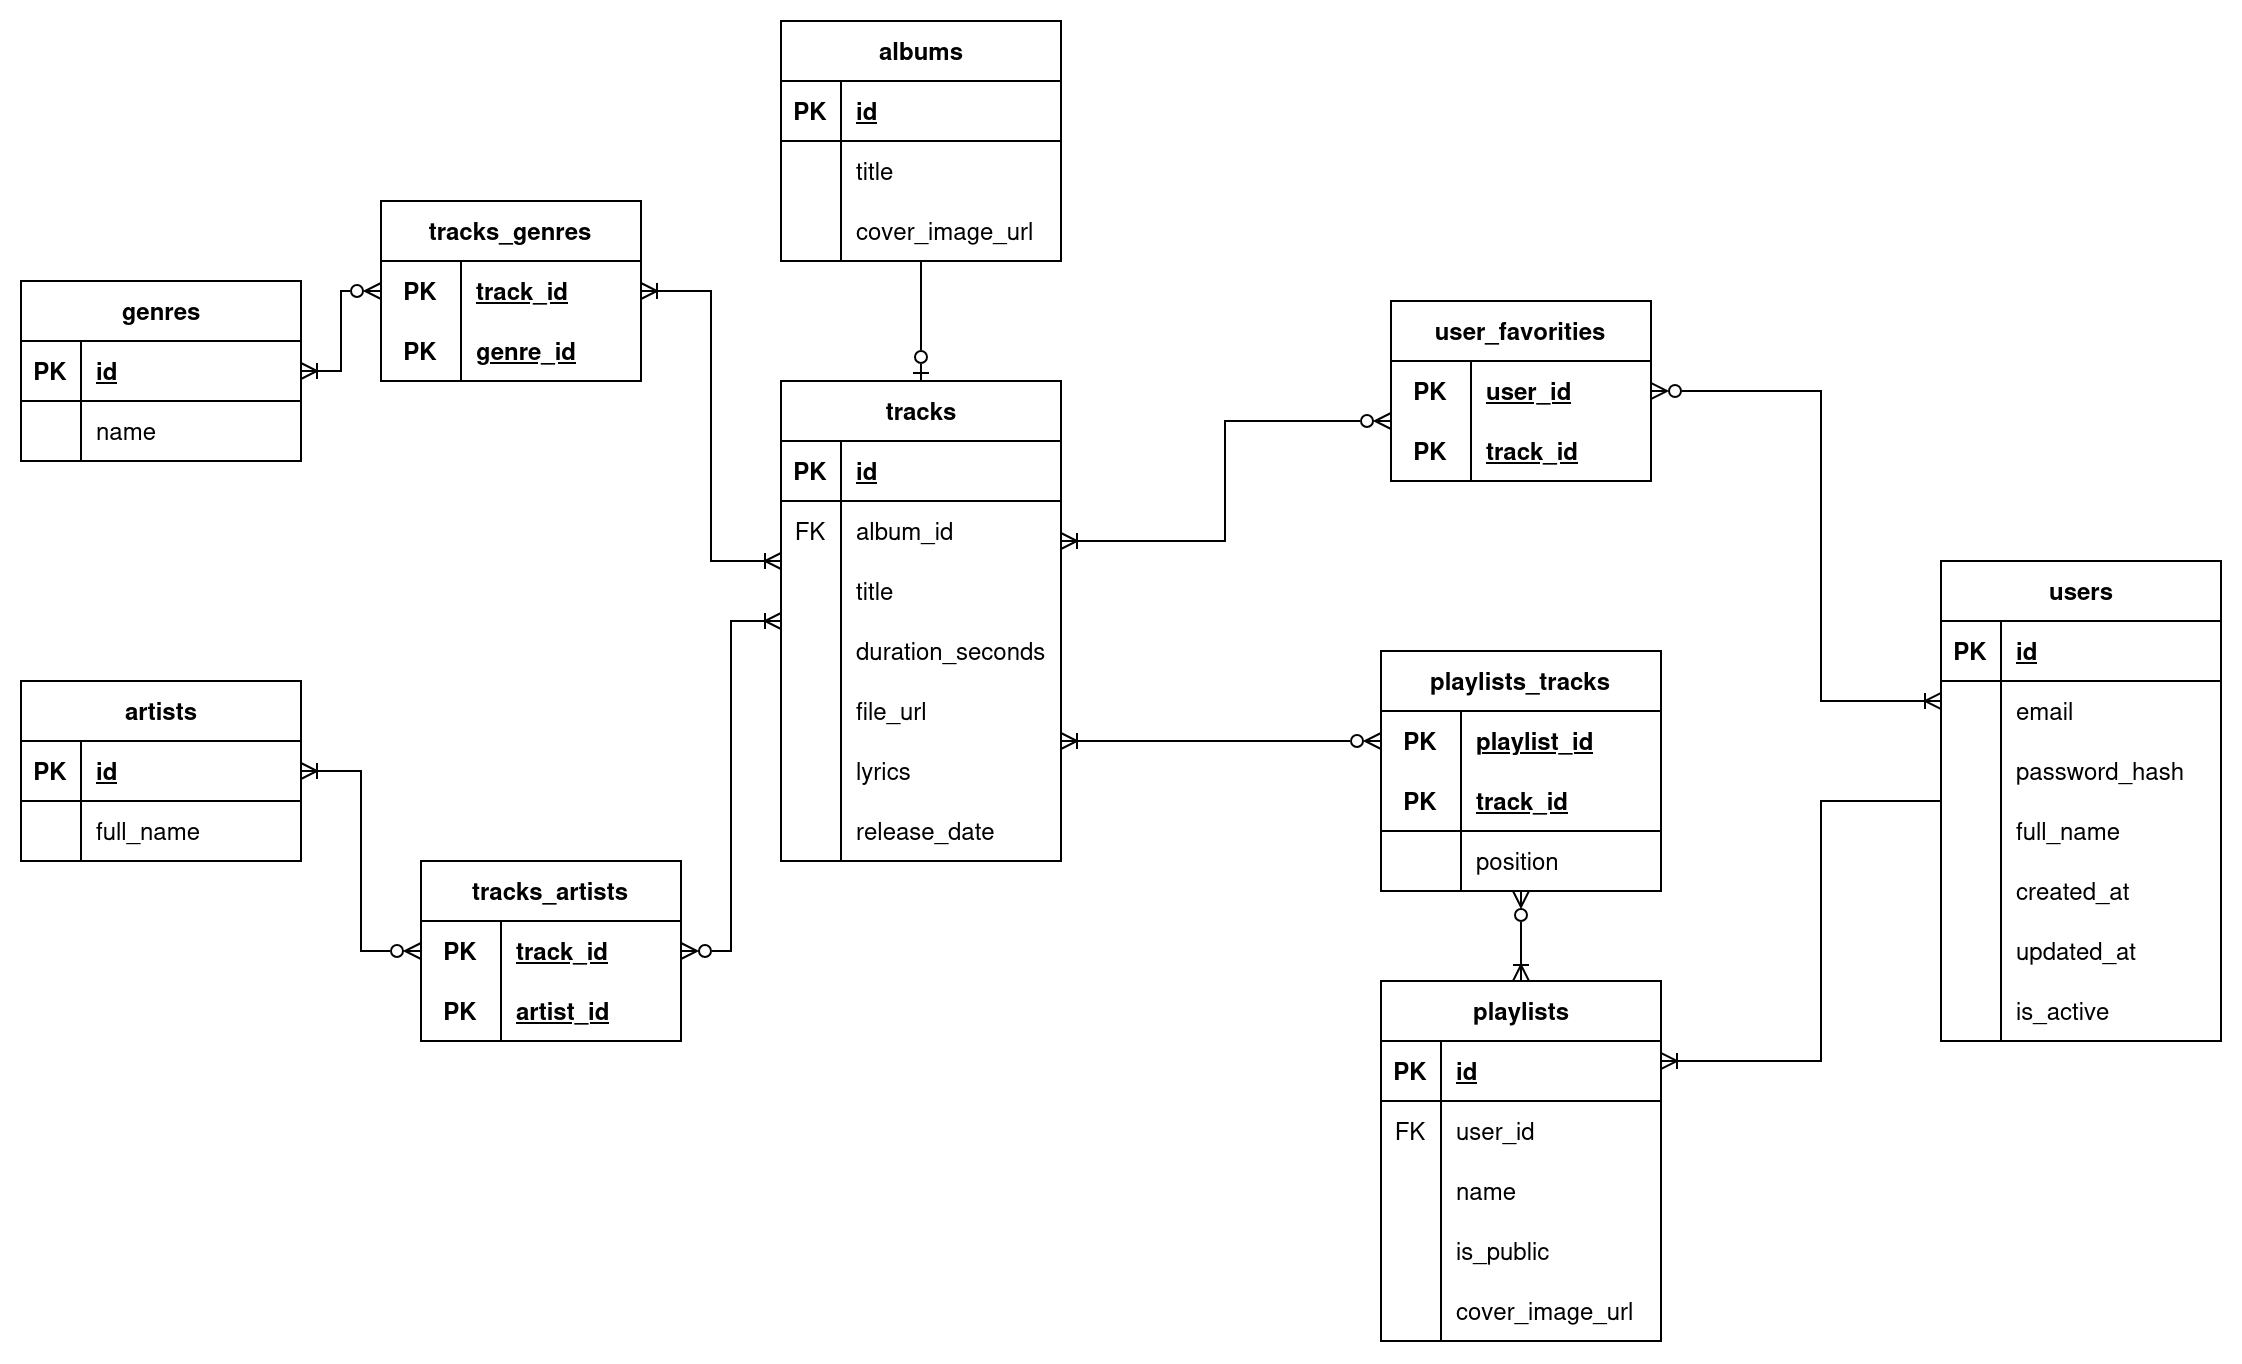
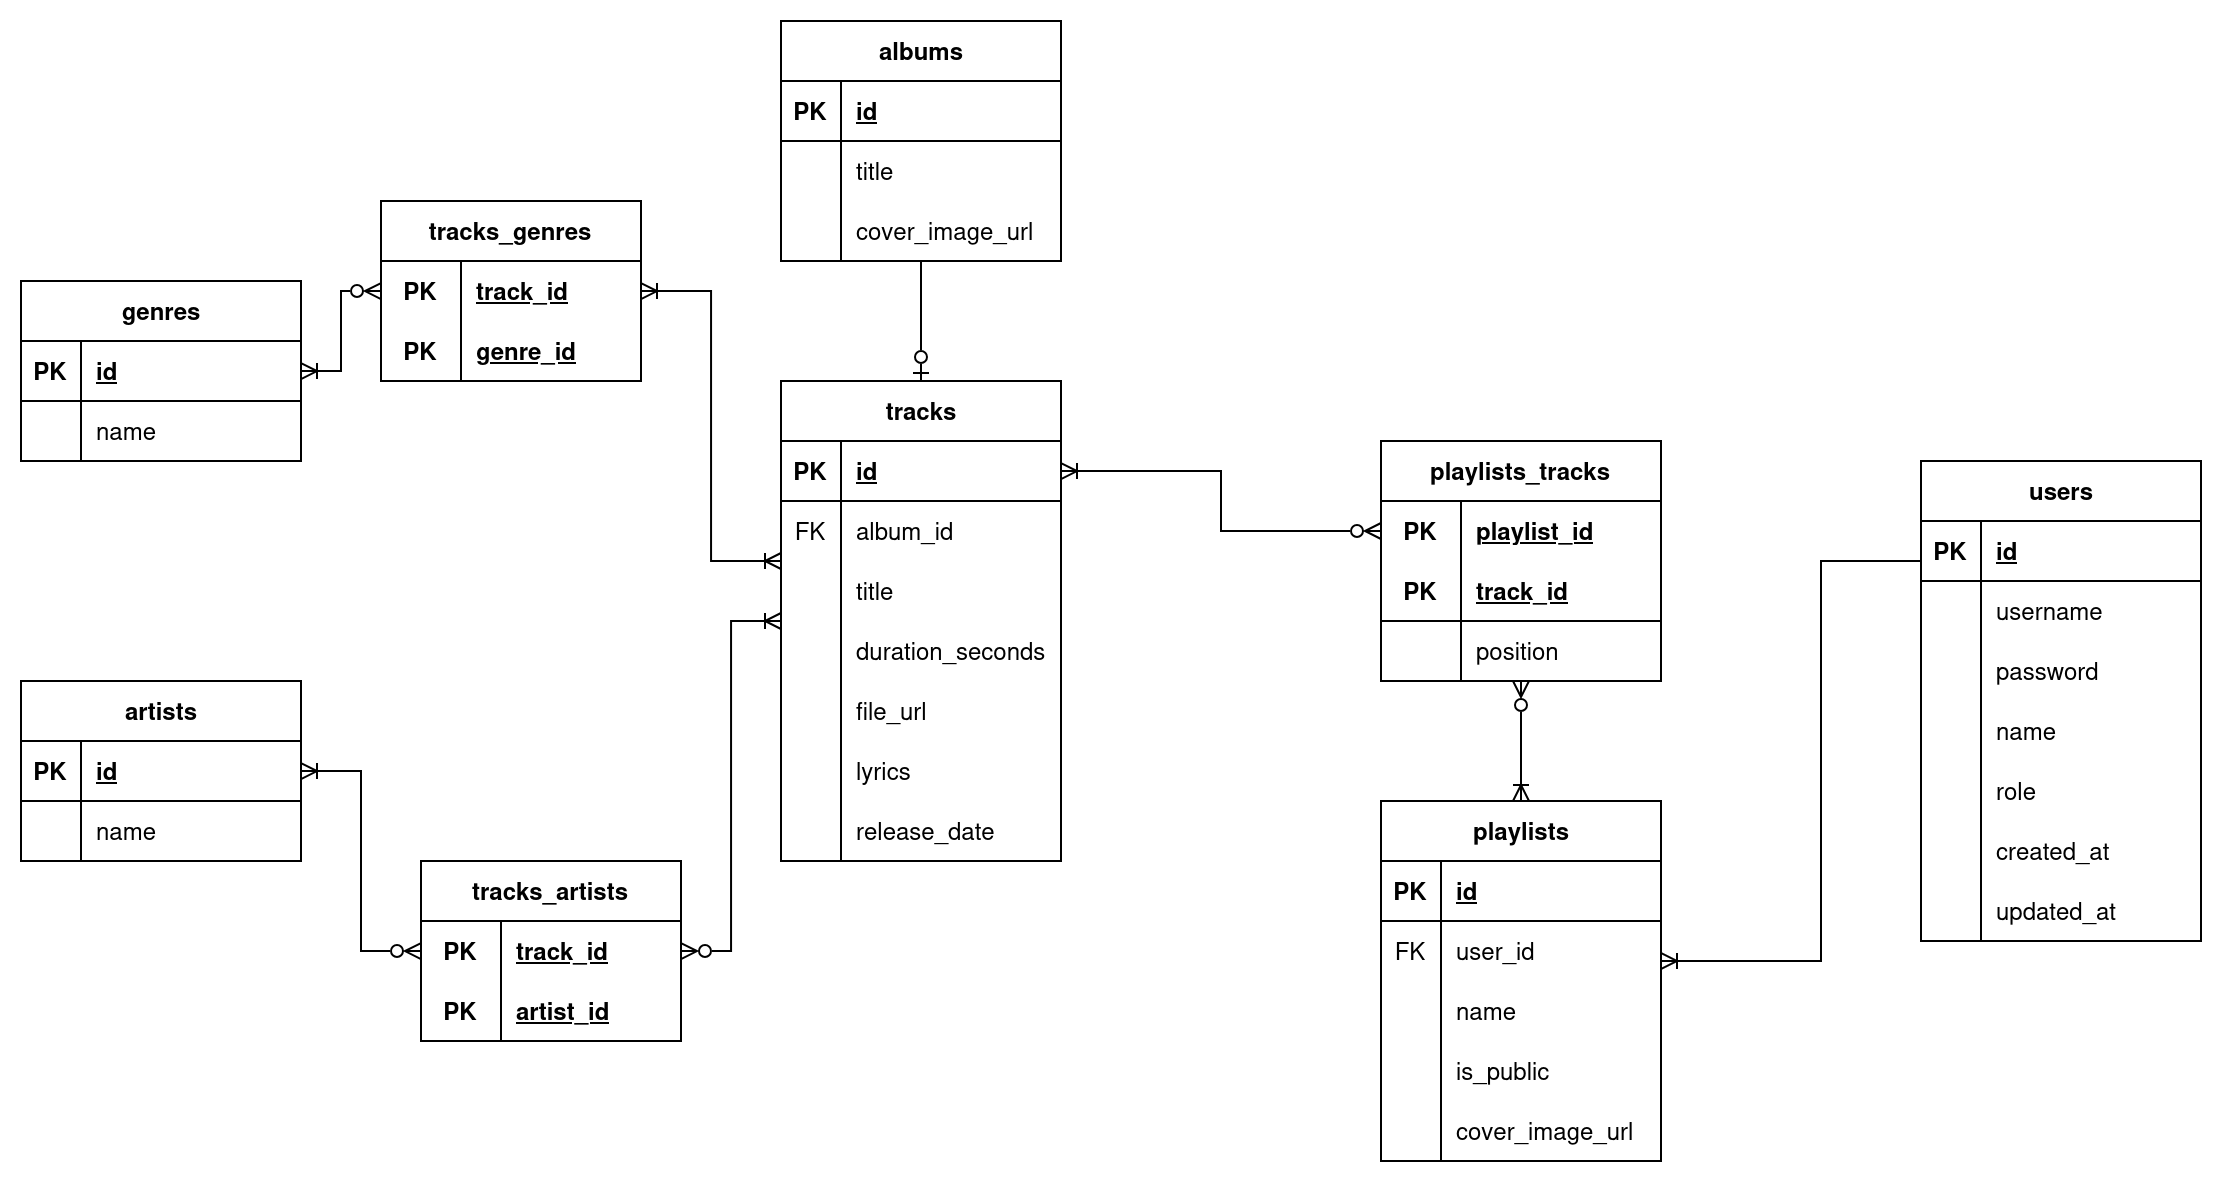
Обновлена ER-диаграмма

diff --git a/src/main/java/com/music/config/SecurityConfig.java b/src/main/java/com/music/config/SecurityConfig.java
@@ -45,7 +45,7 @@ public class SecurityConfig {
   @Bean
   public SecurityFilterChain filterChain(HttpSecurity http) throws Exception {
     http
-      .csrf(AbstractHttpConfigurer::disable)
+      .csrf(AbstractHttpConfigurer::disable)  //NOSONAR
       .cors(cors -> cors.configurationSource(request -> {
         var corsConfiguration = new CorsConfiguration();
         corsConfiguration.setAllowedOriginPatterns(List.of("*"));
